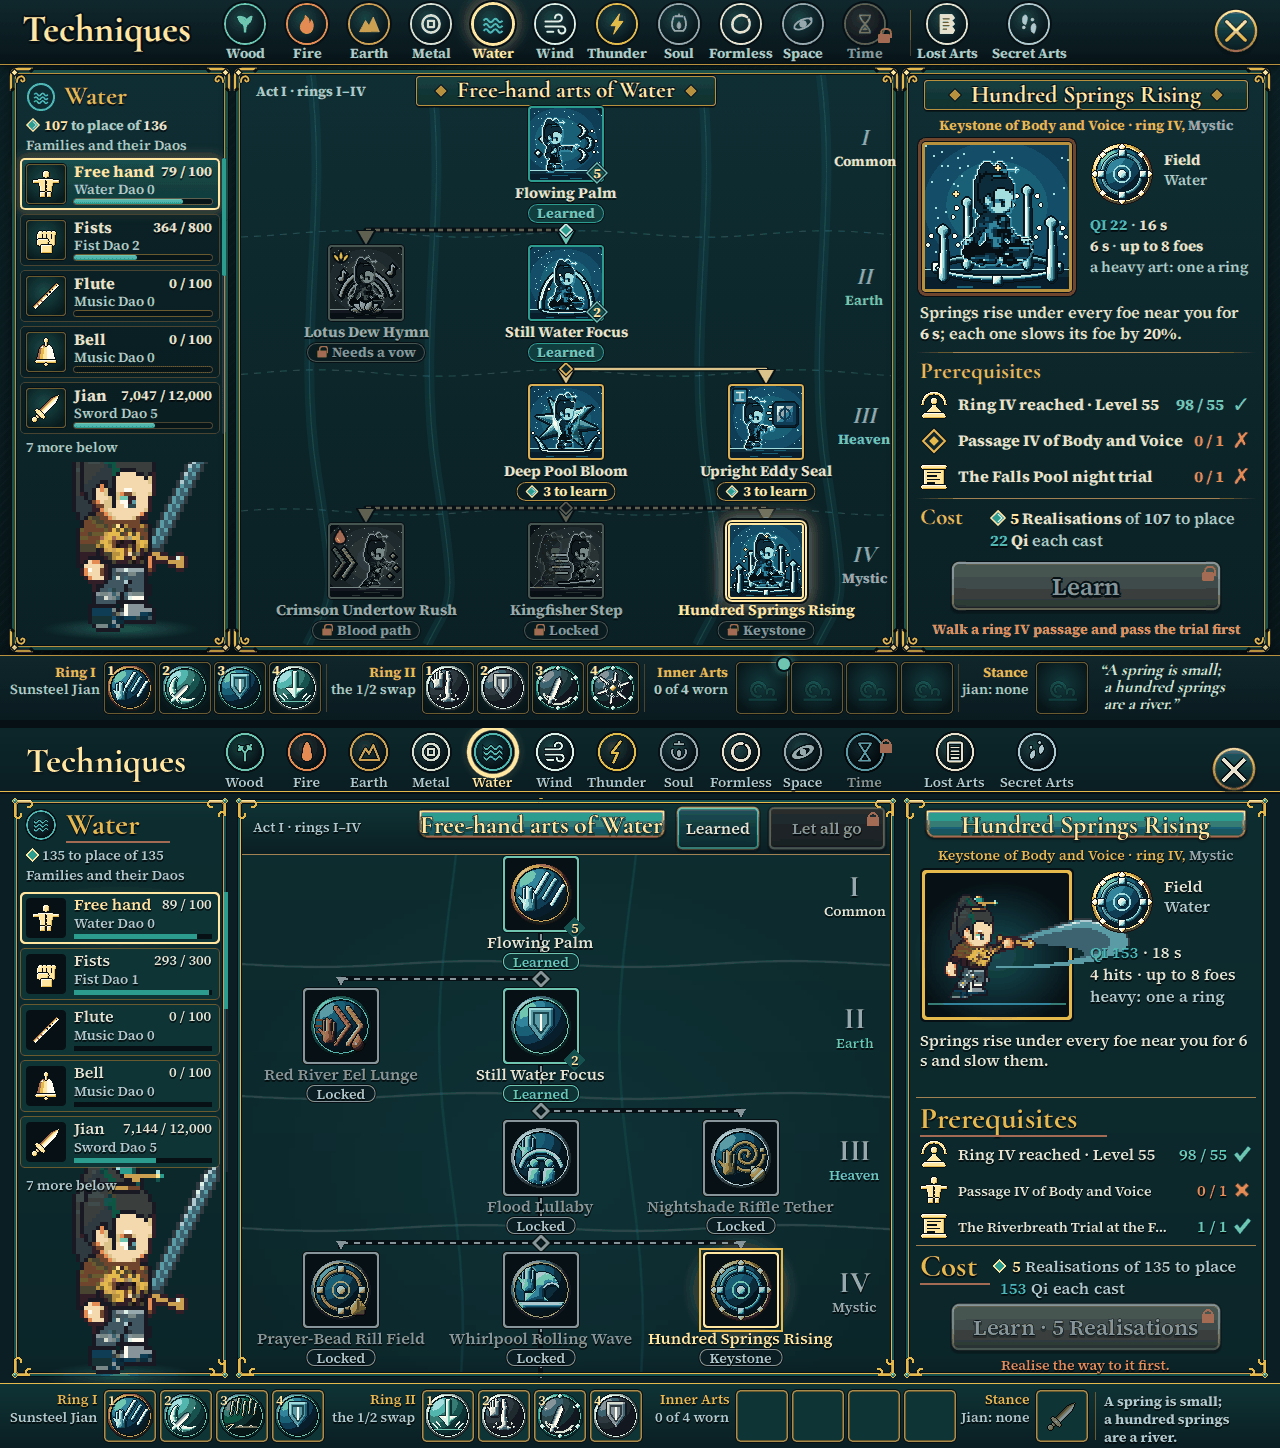
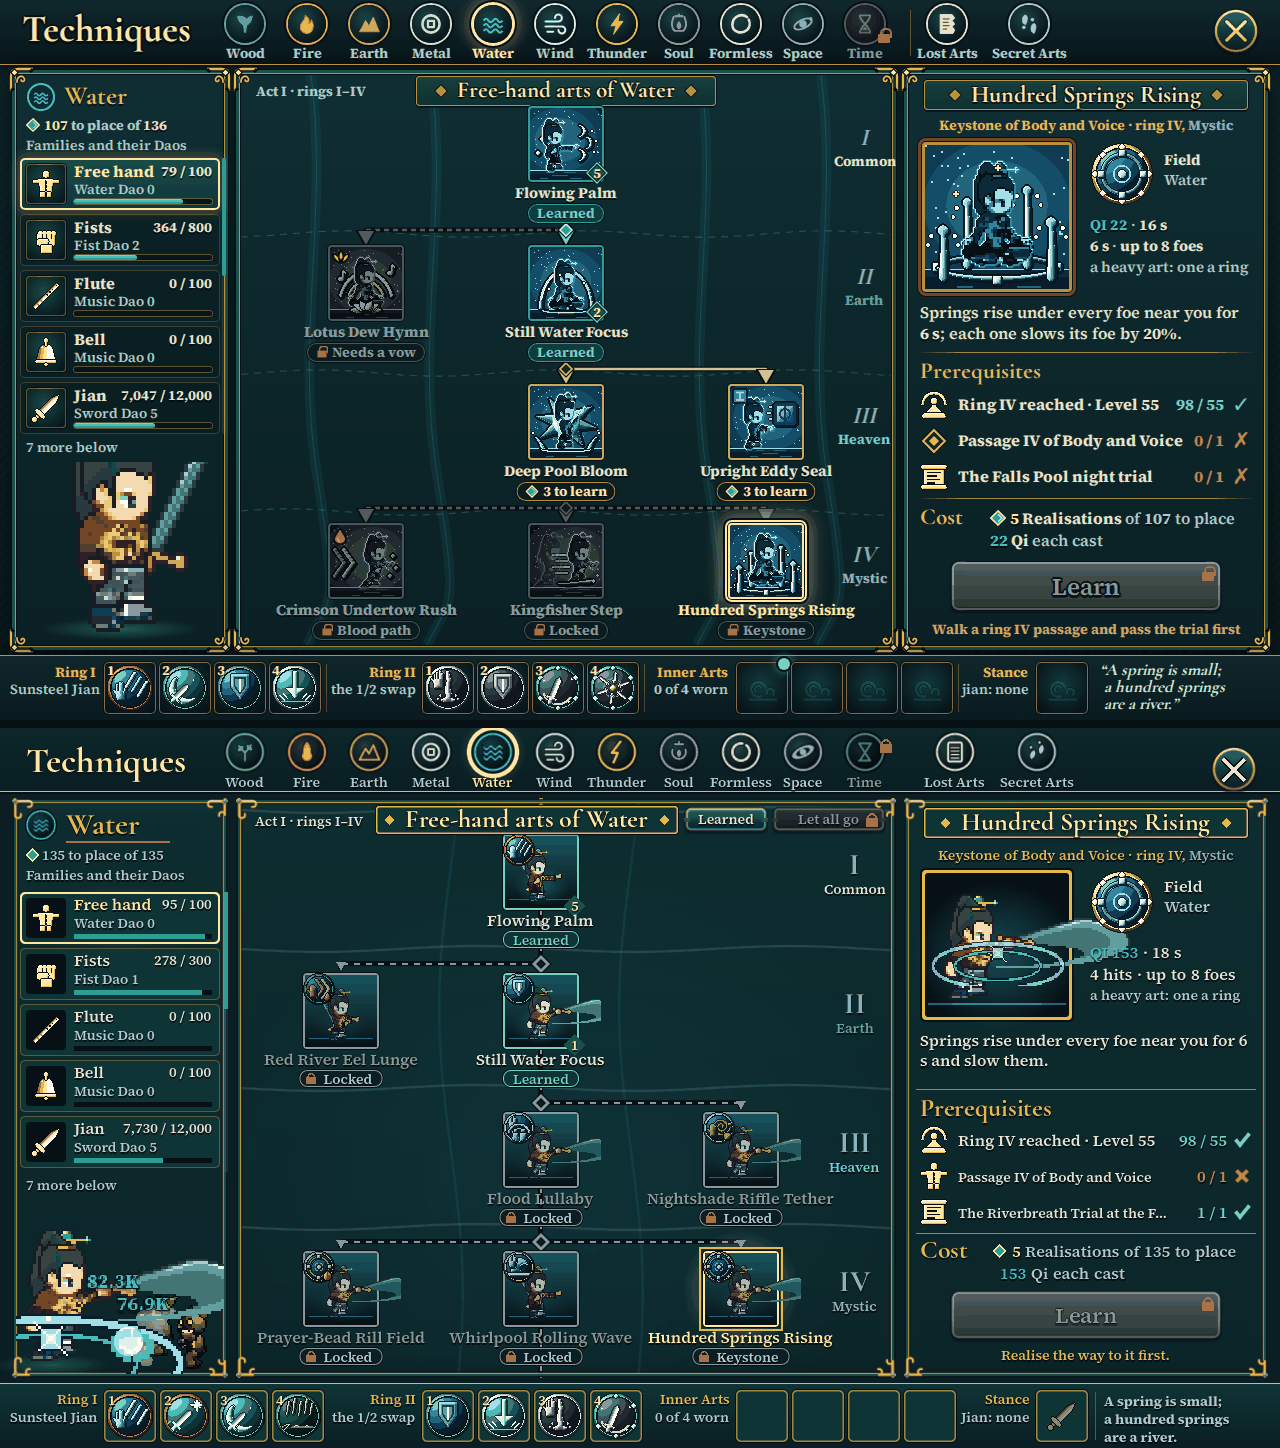
Techniques page: the chosen art cast live, closer to its mockup
Under the chooser the character (a little smaller) casts the chosen art
as a fight does (TechniquePreview: its vfx.pose, its form's sheet through
FxLayer.cast, now shared with World._cast, its hits through FxLayer.hit)
at pebble imps: one for a single strike, a pack for a multi-hit or area
form; a ward's dome turns a blow, a counter parries one, a snare or a
seal holds its imp. Loops with a pause, restarts on another art, one
still at the impact under Reduce motion, 30 fps under Battery saver;
nothing for a passage, an Inner Art or an unfound art. Cards show the
art's picture (a pose still composed once a pose, the emblem in its
corner); no head strip (rows 139 px apart); plaques with diamonds; locks
and the Realisations mark in the tags; closed Learn plain with the reason
in gold. Preview data in tools/data/moments.py, strings in
tools/data/ui_strings.json, rebuilt. Tests in rules_tests; screenshots in
docs/ui_p5/techniques/.

Claude-Session: https://claude.ai/code/session_01M721JCQMMbc2qs2YMLxRch

diff --git a/JadeRiver/tools/data/moments.py b/JadeRiver/tools/data/moments.py
@@ -30,6 +30,15 @@ VFX_TIERS = [dict(zip(["tier"] + _TIER_COLS, r)) for r in [
 # §5.5 multi-hit numbers (a stack: one target, one technique, within stack_s) and §5.7 the numbers shortened from 10,000.
 NUMBERS = {"stack_s": 0.3, "step_s": 0.06, "step_px": 18, "sway_px": 12, "cap": 6, "total_from": 3, "total_after_s": 0.1,
            "total_up_px": 24, "total_plus_px": 2, "short_from": 10000}
+# The Techniques page's live preview (TechniquePreview): the imp that takes the art and its size, the stage's scale
+# (screen px a room px), the loop's beats (s), Battery saver's step rate and pause, how many imps each form strikes (a
+# single strike one, a multi-hit or area form a pack) and how the imps meet the forms that are not plain blows.
+TECHNIQUE_PREVIEW = {"foe": "pebble_imp", "foe_scale": 0.75, "scale": 1.25, "lead_s": 0.4, "after_s": 0.9, "pause_s": 0.8,
+                     "battery_pause_s": 1.6, "battery_fps": 30,
+                     "foes": {"strike": 1, "thrust": 2, "lunge": 2, "blink": 1, "pillar": 1, "echo": 2, "counter": 1, "seal": 1,
+                              "snare": 1, "ward": 1, "flurry": 3, "volley": 3, "rain": 3, "sweep": 3, "wave": 3, "burst": 3,
+                              "swarm": 3, "chorus": 3, "domain": 3, "arc": 3, "seeker": 3, "return": 3, "plunge": 3, "release": 3},
+                     "plays": {"ward": "ward", "counter": "counter", "snare": "bind", "seal": "bind"}}
 # §2.3 the stat rise, in order; only the numbers that changed are shown, before and after, at most seven. "aura" is the
 # look the realm gives the character (AURAS), so a breakthrough that changes it says so on the card.
 STATS = ["level", "max_hp", "max_qi", "max_soul", "physical_attack", "qi_attack", "soul_attack", "crit_chance", "lifespan", "aura"]
@@ -354,4 +363,4 @@ def rows():
 def build():
     write("moments.json", {"entries": rows(), "settings": SETTINGS, "stats": STATS, "auras": AURAS, "dao_colours": DAO_COLOURS, "fountain": FOUNTAIN,
                            "rare": rare(), "chapter_ends": chapter_ends(), "vfx_tiers": VFX_TIERS, "vfx_bands": TIER_BY_REALM, "vfx_shapes": VFX_SHAPES,
-                           "particles": PARTICLES, "numbers": NUMBERS})
+                           "particles": PARTICLES, "numbers": NUMBERS, "technique_preview": TECHNIQUE_PREVIEW})

diff --git a/JadeRiver/docs/ui_p5/techniques/README.md b/JadeRiver/docs/ui_p5/techniques/README.md
@@ -17,14 +17,15 @@ xvfb-run -a -s "-screen 0 1280x720x24" godot --rendering-driver opengl3 --path .
 | Picture | Checkpoint | Extra arguments | What it shows |
 |---|---|---|---|
 | `techniques_tree.png` | ls6_end | `--open-page=techniques:water` | The Water tab as it opens: the rail of seals (Time locked), the chooser with the Realisations to place and each family's Dao bar, the free hand's column of the Water tree on its tide chart, nothing chosen yet |
-| `techniques_tree_keystone.png` | ls6_end | `… --tap=740,585` | Hundred Springs Rising chosen: the character in its pose, Field and Water, its numbers, the prerequisites ticked and crossed, the cost, and Learn · 5 Realisations locked with why under it |
+| `techniques_tree_keystone.png` | ls6_end | `… --tap=740,560 --preview-t=0.75` | Hundred Springs Rising chosen: under the chooser the character casting it at three imps at its impact; the reading with the character in its pose, Field and Water, its numbers, the prerequisites ticked and crossed, the cost, and Learn locked with why under it in gold (retaken after the preview; the other pictures of this table are P13b's) |
+| `preview_strike.png`, `preview_multi.png`, `preview_ward.png` | ls6_end | `… --tap=120,300 --tap=566,285` (Dew Pillar), `… --tap=540,145` (Flowing Palm), `… --tap=540,285` (Still Water Focus), each with `--preview-t=` at four moments | The live preview under the chooser, four frames each, twice size: a single strike (a pillar on one imp: before, the column rising, the hit and its number, the fall), a multi-hit (Flowing Palm's flurry at a pack of three: the wind-up, the blows, the numbers, the imps knocked back), a ward (the dome rises and an imp's blow glances off it) |
 | `techniques_tree_learned.png` | ls6_end | `… --tap=540,170` | Flowing Palm chosen: learned, its mastery diamonds and practice bar, Ring I slot 1 lit in the dock, Unslot and Rank up |
 | `techniques_jian.png` | ls6_end | `--open-page=techniques:metal --tap=100,412` | The chooser's Jian row taps the view along the Metal tree to the jian's column: Silver Crescent open, "3 to learn" (its passage and the art) |
 | `techniques_lost.png` | ls6_end | `--open-page=techniques:lost --tap=436,150` | The Lost Arts album, Act I: 2 of 21 found (Rain of Reeds, Lotus Mind), the other nineteen leaves sealed alike and only counted; Lotus Mind read at the right with Wear |
 | `techniques_secret.png` | ls6_end | `--open-page=techniques:secret --tap=560,116` | The Secret Arts on the practice mat, Plunge read at the right |
 | `techniques_drawer.png` | ls6_end | `--open-page=techniques:water --tap=762,688` | An Inner Art slot tapped: the drawer of known Inner Arts and the stances in the reading |
 | `techniques_early.png` | ht5 | `--open-page=techniques` | Early: Space and Time locked, 43 to place, ring III and IV not yet reached, four slots open in each ring |
-| `compare_06_techniques_tree.png`, `compare_06_techniques_tree_learned.png`, `compare_06_techniques_lost_unknown.png` | — | — | Each mockup above, the build below |
+| `compare_06_techniques_tree.png`, `compare_06_techniques_tree_learned.png`, `compare_06_techniques_lost_unknown.png` | — | — | Each mockup above, the build below (the first retaken with the preview and the closed differences) |
 
 ## Against the mockups
 
@@ -43,18 +44,20 @@ Differences, each on purpose:
 
 1. **The whole tree, not one family.** Decision 11 asks for one huge tree per element: a tab lays every family side by
    side (twelve columns of rings I–VIII, the notables under each act and their channels, the keystones, the Dao arts at
-   the gates), dragged to pan; the chooser's rows jump along it and the plaque names the family in view. A head strip
-   over the chart holds **Learned** (the jump from one learned art to the next) and **Let all go** (the tree's reset);
-   the rings under it start lower, so the rows are 132 px apart, not 139.
-2. **Cards show the art's emblem**, composed at run time from the atlas (`docs/technique_plan.md` §3.9), not a baked
-   scene: 3,171 arts cannot each have a picture. The reading's picture is the character himself, in his gear, in the
-   art's pose on the element's ground.
+   the gates), dragged to pan; the chooser's rows jump along it and the plaque names the family in view. **Learned**
+   (the jump from one learned art to the next) and **Let all go** (the tree's reset) sit small at the chart's top right,
+   beside the plaque, with no strip under them, so the rows are 139 px apart as drawn.
+2. **Cards show the art's picture composed at run time**, not a painted one (3,171 arts cannot each have a picture):
+   the character himself in his gear, in the art's pose on the element's ground (a small still composed once a pose),
+   with the art's emblem in its corner, dimmed while the art is closed. The form's own sheet plays in the reading's
+   picture and the preview, not on the cards: the 24 sheets together are far too large to hold for a tree in view.
 3. **The numbers are this build's.** A valley_run character made after the trees has no opening gift (the migration is
    for older saves), so ls6_end has 135 to place of 135, no passage walked, and the arts past ring I are locked by the
    route where the mockup had passage II walked. The generated names (Red River Eel Lunge, Flood Lullaby) are the
    data's. Act I holds 21 lost arts in the data; the album scrolls past four rows.
-4. **Learn names what it spends** ("Learn · 5 Realisations"), the open point from the review; closed, it carries the
-   lock and the reason under it is the rules' own ("Realise the way to it first").
+4. **Learn names what it spends when it is open** ("Learn · 5 Realisations"), the open point from the review; closed,
+   it is plain Learn with the lock, as drawn, and the reason under it in gold is the rules' own ("Realise the way to it
+   first").
 5. **No "Where it was found"** on a found lost art: the board's card never says where an art came from (decision 19 as
    built in P13a, held by `lost_arts_suite`); the reading says what it is and does, and Wear, Slot or Read.
 6. **The Unread leaves** are a manual carried and not yet read (Read on the reading); Tester at ls6_end carries none.
@@ -64,3 +67,9 @@ Differences, each on purpose:
    plan's eleven distinct projections (a living tree for Wood, a forge sky for Fire …) are later work.
 9. **The drawer**: an Inner Art or the stance in the dock opens the known Inner Arts and the stances in the reading, as
    §4.10 plans; the mockups do not draw it.
+10. **The live preview** (not in the mockups): the character under the chooser, a little smaller than drawn, casts the
+    chosen art as a fight does (its pose, its form's sheet through `FxLayer.cast`, its hits through `FxLayer.hit`) at
+    pebble imps: one for a single strike, a pack for a multi-hit or area form; a ward's dome turns an imp's blow, a
+    counter parries one, a snare or a seal holds its imp. It loops with a pause, restarts on another art, holds one
+    still frame at the impact under Reduce motion and steps at 30 fps under Battery saver; a passage, an Inner Art or an
+    art not yet found shows nothing.

diff --git a/JadeRiver/docs/CHANGELOG.md b/JadeRiver/docs/CHANGELOG.md
@@ -10,7 +10,7 @@
   starts again on another art, holds one still frame at the impact under Reduce motion, steps at 30 fps under Battery
   saver, and plays only while the page is open; a passage, an Inner Art or an art still unfound shows nothing.
 - **Nearer the mockup** (`docs/ui_p5/techniques/README.md`): cards show the art's picture (the character in its pose
-  with its form's impact frame, composed at run time) instead of the emblem; no head strip over the chart (rows 139 px
+  on its element's ground, a small still composed once a pose, the emblem in its corner) instead of the emblem alone; no head strip over the chart (rows 139 px
   apart, Learned and Let all go small at its top right); name plaques with gold diamonds; locks and the Realisations
   mark in the tags; closed Learn plain with the reason in gold; lighter section names in the reading.
 
